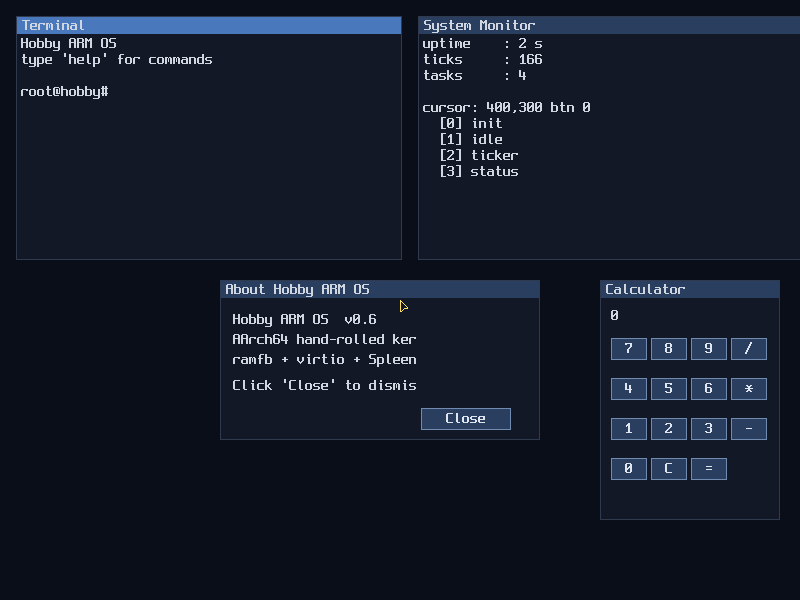
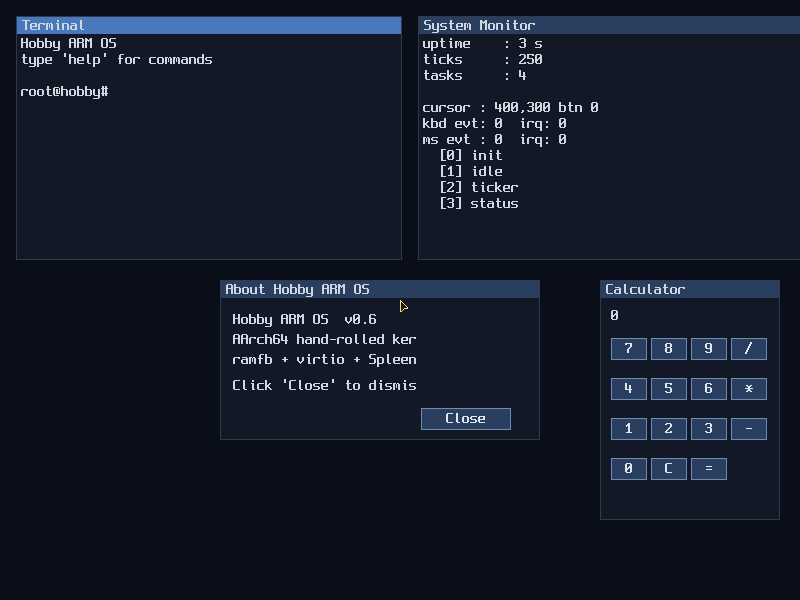
README: document the virtio queue write-path issue clearly
POST + uptime + UART RX IRQ all fire correctly, but
'info mice' shows the tablet is registered, 'mouse_move' from the
QEMU monitor never advances kbd/ms event or irq counters in the
running guest. Same flavour as the virtio-blk save submit hang.

Workaround in place: shell 'mouse' command lets the user drive the
cursor and click from the serial line, so the desktop is fully
usable in a hybrid mode (VNC window for display, terminal for
input).

Changed region(s): [[0.5312, 0.15, 0.75, 0.36]]

diff --git a/README.md b/README.md
@@ -265,6 +265,18 @@ Scaffolding now in place (each one started, not all complete):
 - [~] Pi 5 GIC + UART IRQ numbers in board header (port still
       compile-out until real-hardware bring-up)
 
+Known issue, top of the follow-up list:
+
+- Driver-side virtio queue **write** path doesn't reach the device on
+  QEMU 11 + macOS aarch64. Symptom: virtio-input/tablet IRQs never
+  fire (`kbd evt: 0  irq: 0` in System Monitor) so cursor and
+  keyboard events from the QEMU window or VNC client never reach the
+  guest. Same root cause as virtio-blk save hanging at status=0xff.
+  Workaround today: drive the cursor and click from the serial-line
+  shell (`mouse right 200`, `mouse to X Y`, `mouse click`). Real fix
+  needs cache invalidation around the virtq + a virtio-input
+  capability probe (or a switch to virtio-pci transport).
+
 Open work, in rough order:
 
 - [ ] Pull AP=01 page permissions out of the 1 GiB blocks so user
